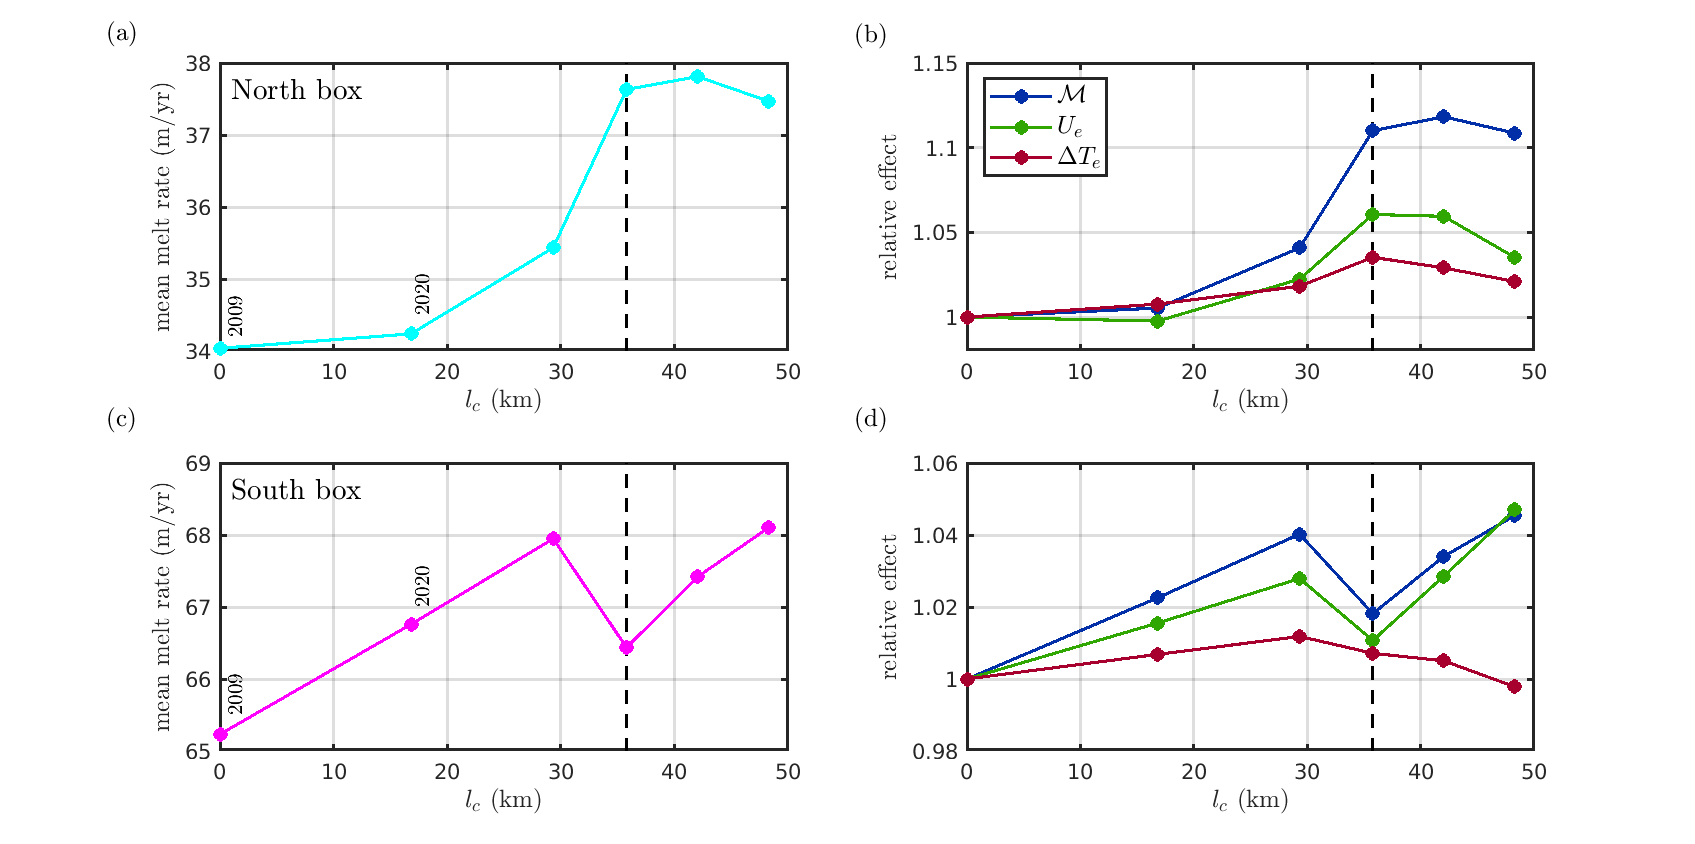
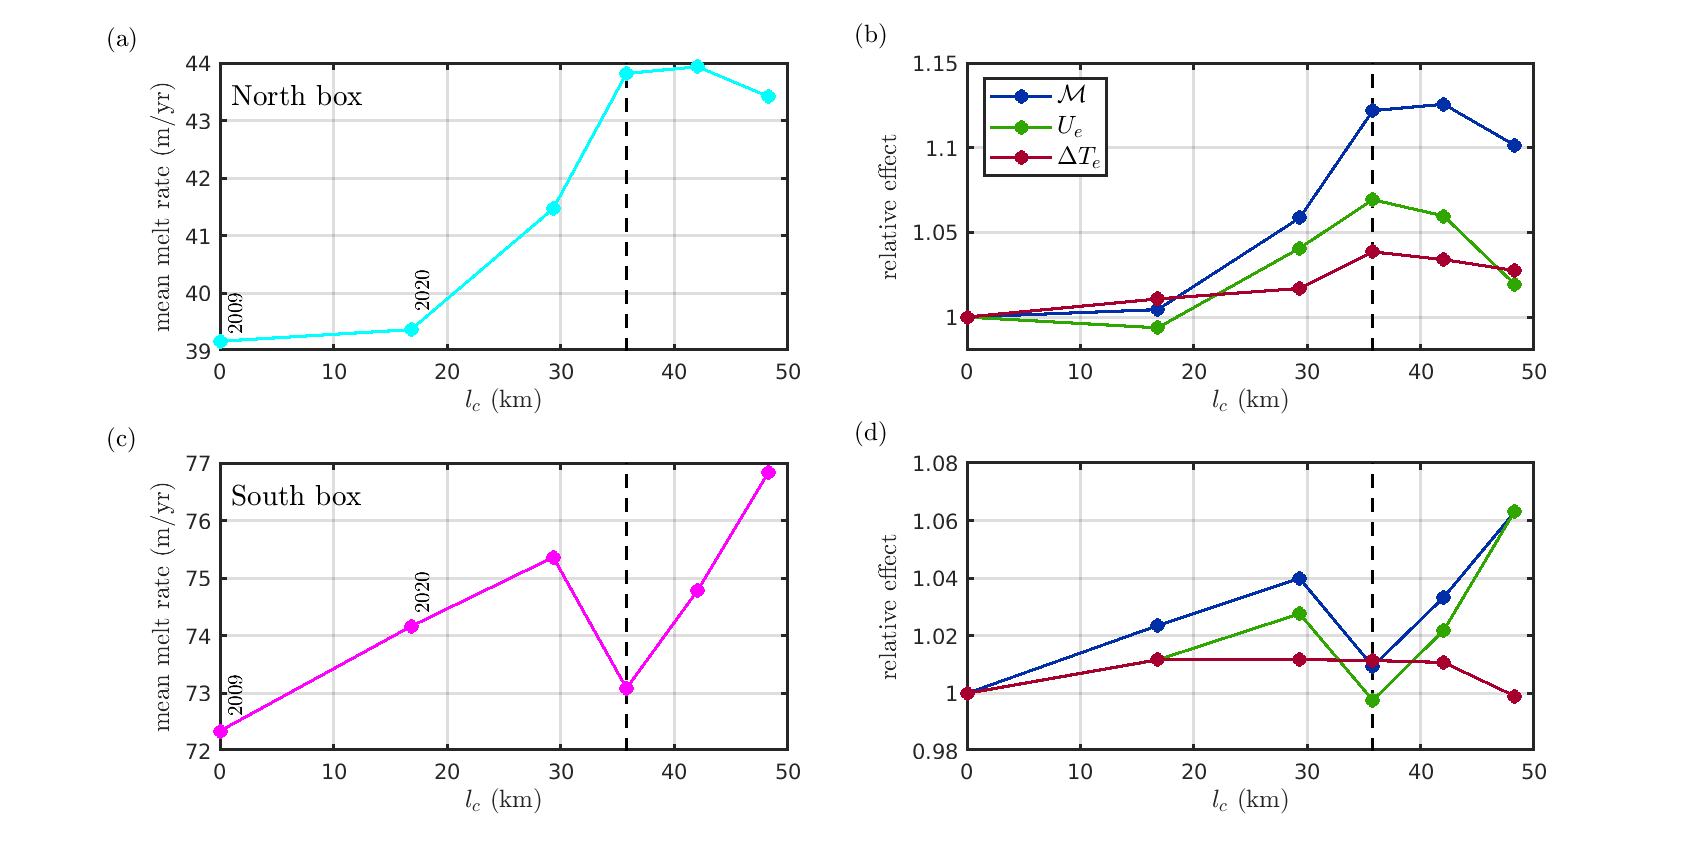
fig 13 updates

diff --git a/make_figures/make_figure13.m b/make_figures/make_figure13.m
@@ -179,8 +179,8 @@ ax(1).XLabel.FontSize = 12;
 ax(1).YLabel.FontSize = 12;
 ax(3).XLabel.FontSize = 12;
 ax(3).YLabel.FontSize = 12;
-tN = text(ax(1), 1, 37.6, "North box", "Interpreter", "latex", "FontSize", 14, "Color", 'k');
-tS = text(ax(3), 1, 68.6, "South box", "Interpreter", "latex", "FontSize", 14, "Color", 'k');
+tN = text(ax(1), 1, 43.4, "North box", "Interpreter", "latex", "FontSize", 14, "Color", 'k');
+tS = text(ax(3), 1, 76.4, "South box", "Interpreter", "latex", "FontSize", 14, "Color", 'k');
 txt2009 = text(ax(1), 1.5,39.3, '2009', 'Interpreter', 'latex', 'FontSize', 10, 'rotation', 90);
 txt2020 = text(ax(1), 18, 39.7, '2020', 'Interpreter', 'latex', 'FontSize', 10, 'rotation', 90);
 
@@ -240,7 +240,7 @@ end
 l = legend(ax(2), {"$\mathcal{M}$", "$U_e$", "$\Delta T_e$"}, 'location', 'northwest','interpreter', 'latex', 'FontSize', 12);
 
 ax(2).YLim = [0.98, 1.15];
-ax(4).YLim = [0.98, 1.06];
+ax(4).YLim = [0.98, 1.08];
 ax(2).XLabel.String = '$l_c$ (km)';
 ax(4).XLabel.String = '$l_c$ (km)';
 ax(2).YLabel.Interpreter = 'latex';
@@ -256,10 +256,10 @@ ax(4).YLabel.FontSize = 12;
 
 
 %plot labels
-ta = text(ax(1), -10, 38.4, '(a)', 'Interpreter', 'latex', 'FontSize', 12);
+ta = text(ax(1), -10, 44.4, '(a)', 'Interpreter', 'latex', 'FontSize', 12);
 tb = text(ax(2), -10, 1.166, '(b)', 'Interpreter', 'latex', 'FontSize', 12);
-tc = text(ax(3), -10, 69.6, '(c)', 'Interpreter', 'latex', 'FontSize', 12);
-td = text(ax(4), -10, 1.072, '(d)', 'Interpreter', 'latex', 'FontSize', 12);
+tc = text(ax(3), -10, 77.4, '(c)', 'Interpreter', 'latex', 'FontSize', 12);
+td = text(ax(4), -10, 1.09, '(d)', 'Interpreter', 'latex', 'FontSize', 12);
 
 
 
